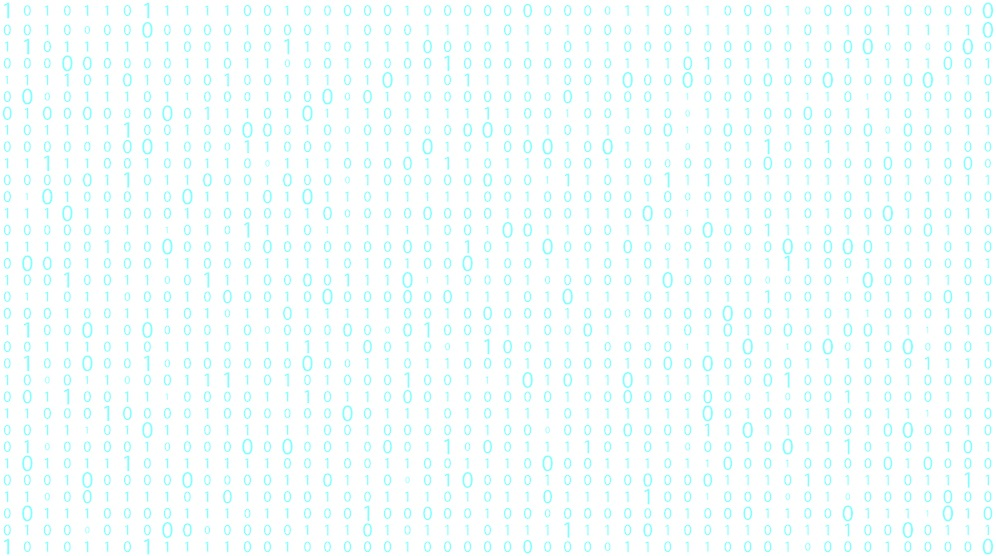
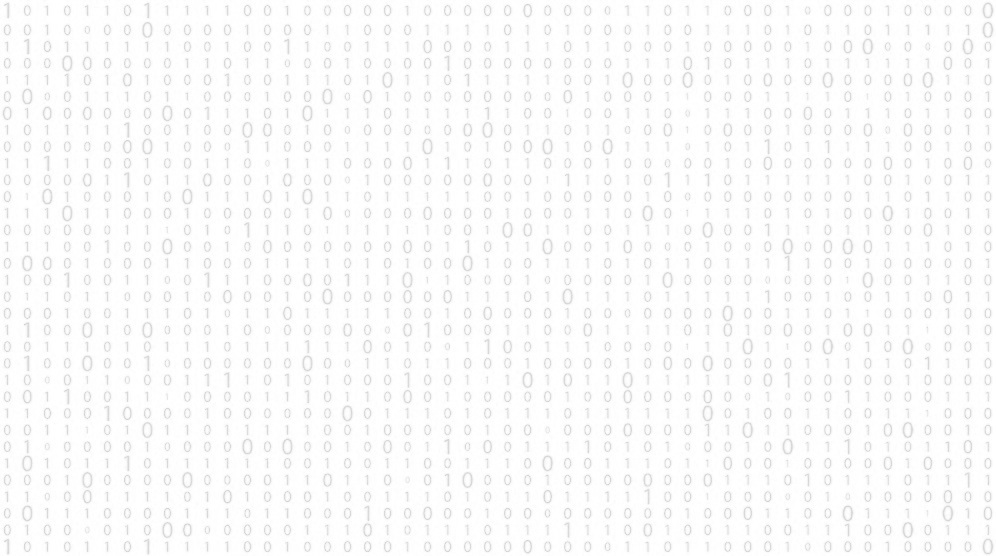
ff

diff --git a/index.html b/index.html
@@ -19,7 +19,7 @@
 
     <header class="mybg container p-3 justify-content-center d-flex flex-column myborder">
       <h1 class="display-2 fw-bolder headfont"><span class="content">Szyfry i Kody*</span></h1>
-      <span class="text-end fst-italic small fw-bold"><span class="content2">* Zakątek w sieci gdzie zaczerpniesz garść
+      <span class="text-end fst-italic fw-bold"><span class="content2">* Zakątek w sieci gdzie zaczerpniesz garść
           wiedzy na temat
           popularnych sposobów szyfrowania</span></span>
     </header>
@@ -28,15 +28,15 @@
 
     <div class="container bg-light myborder">
 
-      <nav class="navbar navbar-expand-lg navbar-light bg-light">
-        <a class="navbar-brand px-3 pb-2" href="#"><span class="display-5 fst-bold">&#128273;</span></a>
+      <nav class="navbar navbar-expand-lg">
+        <a class="navbar-brand px-5 pb-2" href="#"><img class="img-fluid justify-content-center d-flex d-block" src="navbar.png" alt="Kolorat"></a>
         <button class="navbar-toggler" type="button" data-bs-toggle="collapse" data-bs-target="#navbarNavDropdown"
           aria-controls="navbarNavDropdown" aria-expanded="false" aria-label="Toggle navigation">
           <span class="navbar-toggler-icon"></span>
         </button>
 
         <div class="collapse navbar-collapse bold-nav-ft" id="navbarNavDropdown">
-          <ul class="navbar-nav">
+          <ul class="navbar-nav m-0">
             <li class="nav-item">
               <a class="nav-link" href="index.html">Strona główna</a>
             </li>
@@ -64,7 +64,7 @@
                 </li>
 
                 <li>
-                  <hr class="dropdown-divider">
+                  <hr class="dropdown-divider m-0 pt-1">
                 </li>
                 <li class="nav-item">
                   <a class="dropdown-item" href="hamming.html">Kodowanie<br>Hamminga</a>
@@ -78,15 +78,15 @@
     </div>
 
     <div class="container px-3 myhdr myborder">
-      <div class="row ">
+      <div class="row">
         <div class="col-sm-2">
 
-          <div class="p-1 pt-3 ">
+          <div class="p-1 pt-3">
             <div class="spanhov"><img class="img-fluid img-thumbnail justify-content-center d-flex d-block" src="my_photo_main.jpg" alt="Konczysta - kopczyk"></div>
             <div class="hide"><img tabindex="0" class="img-fluid img-thumbnail justify-content-center d-flex d-block" src="my_photo_hov.jpg" alt="Autor"></div>
           </div>
 
-          <p class="mt-4 p-1"><span class="bold-nav-ft">O mnie &#128071; </span><br> Tomek W. - Fascynat Tatr, Muzyki i
+          <p class="mt-4 p-1 "><span class="bold-nav-ft">O mnie &#128071; </span><br> Tomek W. - Fascynat Tatr, Muzyki i
             Matematyki &rArr;
             Górskie wędrówki, koncerty i łamigłówki</p>
           <h5 class="mt-4 p-1">Przydatne źródła &#128071;</h5>
@@ -105,8 +105,8 @@
             </li>
             <li class="nav-item">
               <a class="nav-link"
-                href="https://home.agh.edu.pl/~horzyk/lectures/bdk/BDK-KryptografiaKryptoanaliza.pdf">Wykład A.
-                Horzyka</a>
+                href="https://home.agh.edu.pl/~horzyk/lectures/bdk/BDK-KryptografiaKryptoanaliza.pdf">WDI - A.
+                Horzyk</a>
             </li>
             <li class="nav-item">
               <a class="nav-link" href="https://www.cryptomuseum.com/">Crypto Museum</a>

diff --git a/styles.css b/styles.css
@@ -9,17 +9,13 @@
 
 
 .myhdr {
-    background: hsl(203, 84%, 88%);
+    background-color:lightgray; 
 }
 
 .mybg {
     background-image: url("mainbg_manuscript.jpg");
 }
 
-p.mytxt , .col-sm-4 > div > p {
-text-indent: 2em;
-
-}
 
 h1 {
     font-size: xx-large;
@@ -56,29 +52,36 @@ h6 {
     background-color: rgb(204, 204, 204); 
     background-color: rgba(204, 204, 204, 0.5);
     padding: 0.12em;
+    border-radius: 1em;
 }
 
 .content2 {
     background-color: rgb(204, 204, 204); 
     background-color: rgba(204, 204, 204, 0.75);
-    padding: 0.12em;
+    padding: 0.3em;
+    border-radius: 1em;
 }
 
 .myborder {
-    border-radius: 0.5em;
+    border-radius: 0.3em;
 }
 
 .navbar-nav > .nav-item {
-    min-width: 135px;
-    border-width: 3px;
+    min-width: 155px;
+    border-width: 1px;
     border-style: solid;
-    border-color: black;
-    border-radius: 1em;
+    border-color: darkgray;
+    border-radius: 0.7em;
     margin-right:  2em;
-    margin-top:  0.3em;
+    
     color: black;
-    background-color:goldenrod;
+    background-color:lightgray;
     text-align: center;
+    padding: 0.4em;
+}
+
+.navbar-nav > .nav-item:hover {
+    background-color:whitesmoke;
 }
 
 .navbar-nav > .nav-item > .nav-link {
@@ -86,31 +89,37 @@ h6 {
 }
 
 .dropdown-menu {
-        border-width: 3px;
+        border-width: 1px;
         border-style: solid;
-        border-color: black;
-        border-radius: 1em;
-        margin-right:  2em;
-        margin-top:  0.3em;
-        color: black;
-        background-color:goldenrod;
-        text-align: center;
+        border-color: darkgray;
+        border-radius: 0.5em;
+        background-color:lightgray;
+        
+    }
+
+    .dropdown-menu > .nav-item> .dropdown-item {
+        font-weight: bold;
+        border-radius: 0.5em;
+        border-width: 1px;
+        border-style: solid;
+        border-color:darkgray;
     }
 
     .dropdown-menu > .nav-item> .dropdown-item:hover {
-        border-radius: 1em;
-        border-width: 3px;
+        border-radius: 0.5em;
+        border-width: 1px;
         border-style: solid;
-        border-color: black;
+        border-color: darkgray;
+        background-color:whitesmoke;
     }
 
     .nav > .nav-item> .nav-link{
         
         border-width: 1px;
         border-style: solid;
-        border-color: black;
-        margin-top: 2px;
+        border-color:darkgray;
         color: blue;
+        background-color:gainsboro;
         text-align: right;
         text-wrap:initial;
 
@@ -118,7 +127,9 @@ h6 {
 
     .nav > .nav-item> .nav-link:hover {
         
-        background-color: aquamarine;
+        background-color:whitesmoke;
+        color:darkblue;
+        font-weight: bold;
 
     }
 
